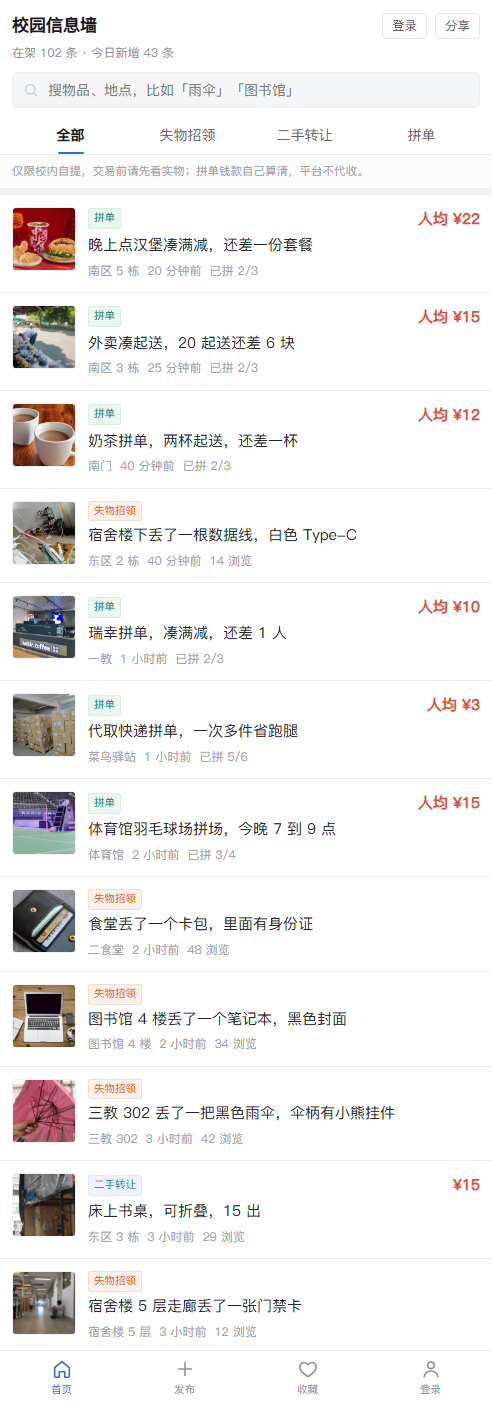
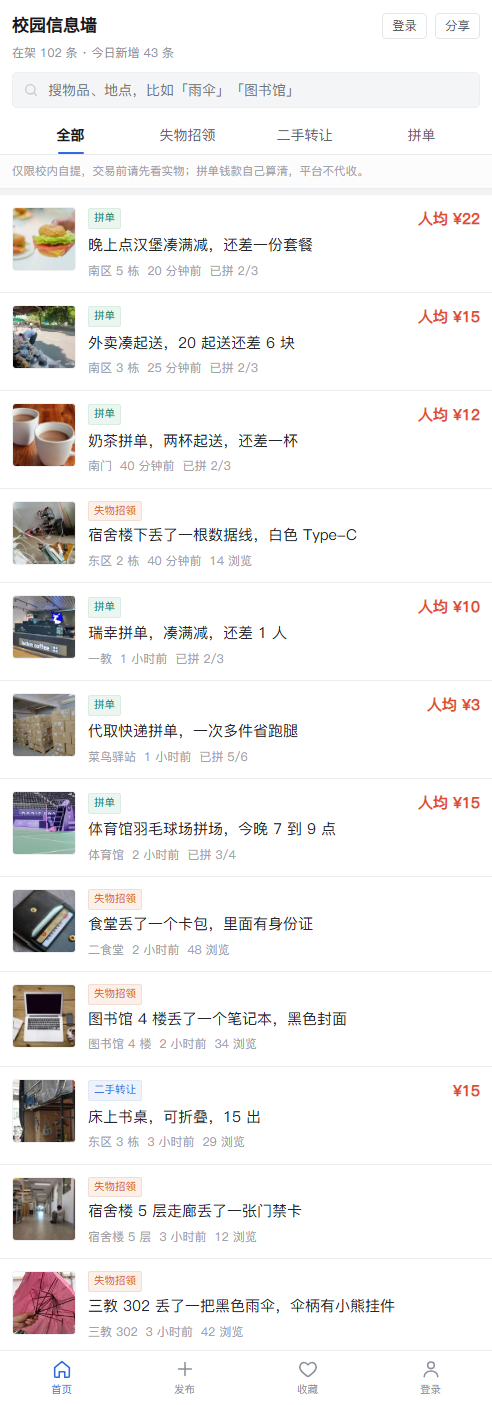
feat: 校园信息墙 v1（单文件 H5）
- 失物招领 / 二手转让双板块，60 条示例内容，每条配一张实拍图
- 学号注册登录、收藏（再点一次取消、按账号存）、我的发布（改状态 / 删除）
- 管理员后台：8 个指标、四步转化漏斗、14 天趋势、渠道归因、CSV 导出
- 埋点模型 {t, ev, id, uid, ch}，纯前端 localStorage，业务与存储之间只隔 DB.get / DB.set

diff --git a/index.html b/index.html
@@ -508,8 +508,10 @@ function heroHome(){
 }
 
 function thumbHtml(it){
-  var img = (it.imgs && it.imgs.length)
-    ? '<img src="'+esc(it.imgs[0])+'" alt="" loading="lazy" onerror="this.remove()">' : '';
+  /* 列表只用 200px 的小图（img/t/），详情页才加载原图：弱网下首屏不至于全是灰块 */
+  var src = (it.imgs && it.imgs.length) ? it.imgs[0] : '';
+  if (src.indexOf('img/') === 0) src = src.replace('img/', 'img/t/');
+  var img = src ? '<img src="'+esc(src)+'" alt="" loading="lazy" onerror="this.remove()">' : '';
   return '<div class="thumb">'+ico('image')+img+'</div>';
 }
 
